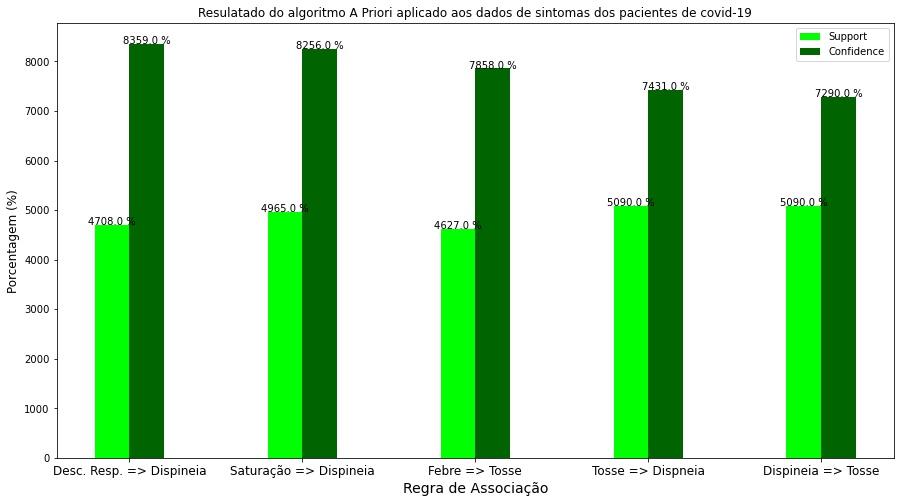
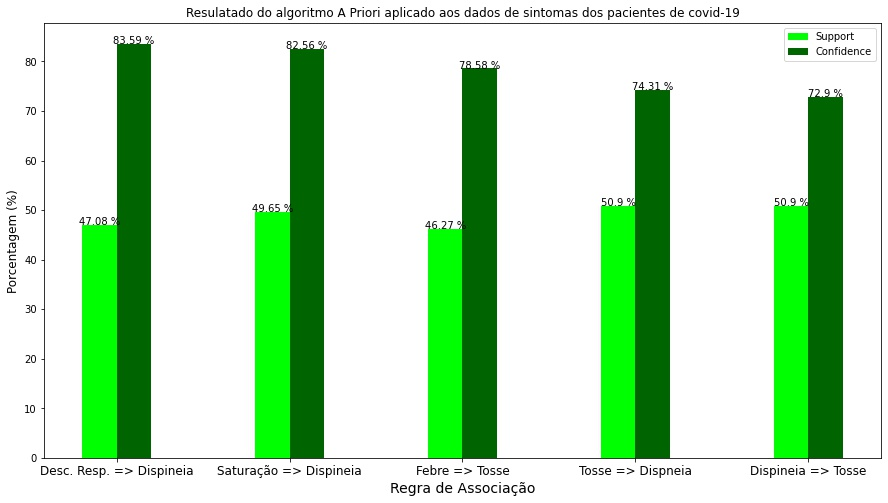
eeeeeeeeeeeeee

diff --git a/tcc_1/tcc_exemplo.tex b/tcc_1/tcc_exemplo.tex
@@ -118,7 +118,7 @@ A Computação é uma grande aliada nessa luta contra a covid-19, os estudos em 
 
 \chapter{Mineração de Dados}
 
-Desde de os primórdios da computação estudar dados tem sido uma atividade bastante fundamental e com o passar do tempo isso vem se tornando cada vez mais importante e necessário, hoje podemos dizer que dados são um dos recursos computacionais mais valiosos, sendo de extrema importância para qualquer empresa ou instituição. Uma das tecnologias mais utilizadas quando se trata de estudar e explorar dados é a Mineração de Dados. 
+Desde de o inicio da computação estudar dados tem sido uma atividade bastante fundamental e com o passar do tempo isso vem se tornando cada vez mais importante e necessário, hoje podemos dizer que dados são um dos recursos computacionais mais valiosos, sendo de extrema importância para qualquer empresa ou instituição. Uma das tecnologias mais utilizadas quando se trata de estudar e explorar dados é a Mineração de Dados. 
 
 	O termo Mineração de Dados se refere ao conjunto de técnicas utilizadas para descobrir conhecimento explorando os dados, esse processo busca encontrar padrões, irregularidades e correlações entre os dados de uma base. Cada caso exige uma estratégia de mineração diferente, cabe então ao cientista de dados escolher a técnica adequada ao seu problema, por isso é necessário conhecer bem o tipo de dado que será trabalhado. 
 	
@@ -553,12 +553,186 @@ Com o algoritmo A Priori chegamos á alguns resultados a cerca da base de dados 
  \end{itemize}
 
 \chapter{Conclusões}
+    
+    Com os resultados foi possível chegar em algumas conclusões bastante interessantes acerca dos dados da base, principalmente a relação entre os sintomas e as características dos pacientes de covid-19, que foi o foco deste projeto.
+    
+    Através dos gráficos estatísticos dos dados chegamos em alguns pontos importantes, que são, a maioria dos pacientes são pessoas idosas; que os incidente de casos foram maiores em pessoas do sexo masculino e de raça branca; que dispneia, tosse, saturação e febre foram os sintomas que mais ocorreram; e por ultimo que pessoas com comorbidades do tipo obesidade e diabética tiveram maior vulnerabilidade.
+    
+    Para finalizar temos os gráficos que mostra os conhecimentos descobertos. Primeiro temos as relações entre os sintomas descobertas através do A Priori. 
+
     \begin{figure}[!h]
     \centering
-    \includegraphics[width=14cm]{AprioriIMG.jpg}
-    \caption{Gráfico com o support e o confidence do resultado do A Priori}
+    \includegraphics[width=13cm]{AprioriIMG.jpg}
+    \caption{Gráfico com o resultado do A Priori aplicado aos sintomas de covid-19}
     \end{figure}
-
+    
+    \begin{itemize}
+    \item 47,08\% dos pacientes que tiveram desconforto respiratório manifestaram também dispneia, sendo a confiança dessa regra acorrer de 83,59\%;
+    
+    \item 49,65\% dos pacientes que tiveram saturação manifestaram também dispneia, sendo a confiança dessa regra acorrer de 82,56\%;
+    
+    \item 46,27\% dos pacientes que tiveram febre manifestaram também tosse, sendo a confiança dessa regra acorrer de 78,58\%;
+    
+    \item 50,9\% dos pacientes que tiveram tosse manifestaram também dispneia, sendo a confiança dessa regra acorrer de 74,31\%;
+    
+    \item 50,9\% dos pacientes que tiveram dispneia manifestaram também tosse, sendo a confiança dessa regra acorrer de 72,9\%;
+    \end{itemize}
+    
+    O maior índice de ocorrência de dois sintomas relacionados é de que pessoas que tiveram tosse também apresentaram dispneia, mas com a confiança podemos afirmar que a associação mais garantida entre os sintomas é que o paciente que tiver desconforto respiratório certamente terá dispneia.
+    
+    Agora relacionando o sexo dos pacientes com os sintomas.
+    
+    \begin{figure}[!h]
+    \centering
+    \includegraphics[width=12cm]{AprioriIMG_sexo_feminino.jpg}
+    \caption{Resultado gráfico do A Priori relacionando os sintomas ao sexo feminino}
+    \end{figure}
+    
+    \begin{itemize}
+    \item 46,55\% dos pacientes do sexo feminino que tiveram desconforto respiratório manifestaram também dispneia, sendo a confiança dessa regra acorrer de 83,42\%;
+    
+    \item 48,76\% dos pacientes do sexo feminino que tiveram saturação manifestaram também dispneia, sendo a confiança dessa regra acorrer de 82,44\%;
+    
+    \item 49,81\% dos pacientes do sexo feminino que tiveram tosse manifestaram também dispneia, sendo a confiança dessa regra acorrer de 74,02\%;
+    
+    \item 49,81\% dos pacientes do sexo feminino que tiveram dispneia manifestaram também tosse, sendo a confiança dessa regra acorrer de 71,95\%;
+    
+    \item 48,76\% dos pacientes do sexo feminino que tiveram dispneia manifestaram também saturação, sendo a confiança dessa regra acorrer de 70,43\%;
+    \end{itemize}
+    
+      O maior índice de ocorrência de dois sintomas relacionados entre os pacientes do sexo feminino é que quem tiver tosse também apresentaram dispneia, mas com a confiança podemos afirmar que a associação mais provável de ocorrer entre os sintomas é que o paciente que tiver desconforto respiratório certamente terá dispneia.
+    
+    \begin{figure}[!h]
+    \centering
+    \includegraphics[width=13cm]{AprioriIMG_sexo_masculino.jpg}
+    \caption{Resultado gráfico do A Priori relacionando os sintomas ao sexo masculino}
+    \end{figure}
+    
+     \begin{itemize}
+    \item 47,5\% dos pacientes do sexo masculino que tiveram desconforto respiratório manifestaram também dispneia, sendo a confiança dessa regra acorrer de 83,72\%;
+    
+    \item 50,37\% dos pacientes do sexo masculino que tiveram saturação manifestaram também dispneia, sendo a confiança dessa regra acorrer de 82,66\%;
+    
+    \item 49,01\% dos pacientes do sexo masculino que tiveram febre manifestaram tosse, sendo a confiança dessa regra acorrer de 78,85\%;
+    
+    \item 51,78\% dos pacientes do sexo masculino que tiveram tosse manifestaram dispneia, sendo a confiança dessa regra acorrer de 74,53\%;
+    
+    \item 51,78\% dos pacientes do sexo masculino que tiveram dispneia manifestaram também tosse, sendo a confiança dessa regra acorrer de 73,65\%;
+    \end{itemize}
+    
+      Entre os pacientes do sexo masculino a associação que teve maior índice de ocorrência foi a quem teve tosse também manifestou dispneia e valendo também para a associação ao contrario (dispneia=>tosse), porém quando olhamos para a confiança podemos afirmar que a associação mais garantida de ocorrer entre os relacionamentos é a de que se o paciente do sexo masculino tiver desconforto respiratório certamente terá dispneia também, assim como nos pacientes de sexo feminino.
+      
+      Logo podemos dizer acerca dos dados apresentados que o sexo tem pouca influencia nas relações entre sintomas, só se pode afirmar que pessoas do sexo masculino tem maior manifestação de sintomas do que as pessoas de sexo feminino. 
+      
+      Vamos agora mostrar os resultados do A Priori quando relacionamos os sintomas com a raça dos pacientes.
+    
+    \begin{figure}[!h]
+    \centering
+    \includegraphics[width=14cm]{1_Preta_apriori.jpg}
+    \caption{Resultado gráfico do A Priori relacionando sintomas dos pacientes da raça preta}
+    \end{figure}
+    
+    \begin{itemize}
+    \item 49,43\% dos pacientes da raça preta que tiveram desconforto respiratório manifestaram também dispneia, sendo a confiança dessa regra acorrer de 83,72\%;
+    
+    \item 51,87\% dos pacientes da raça preta que tiveram saturação manifestaram também dispneia, sendo a confiança dessa regra acorrer de 82,88\%;
+    
+    \item 45,78\% dos pacientes da raça preta que tiveram febre manifestaram tosse, sendo a confiança dessa regra acorrer de 79,8\%;
+    
+    \item 46,28\% dos pacientes da raça preta que tiveram desconforto respiratório manifestaram saturação, sendo a confiança dessa regra acorrer de 78,39\%;
+    
+    \item 52,41\% dos pacientes da raça preta que tiveram tosse manifestaram também dispneia, sendo a confiança dessa regra acorrer de 75,87\%;
+    \end{itemize}
+    
+    Entre pacientes pretos a associação de sintomas que mais ocorre entre os casos é a de que se tiver a pessoa tiver saturação terá consequentemente dispneia, essa regra ocorre em cerca de 51,87\% dos casos. Conferindo a confiança podemos afirmar que a maior probabilidade de uma regra ser verdadeira e a que se a pessoa preta tiver desconforto respiratório terá dispneia.
+    
+    \begin{figure}[!h]
+    \centering
+    \includegraphics[width=3.3cm]{fund0.png}
+    \end{figure}
+    
+    \begin{figure}[!h]
+    \centering
+    \includegraphics[width=14cm]{1_Parda_apriori.jpg}
+    \caption{Resultado gráfico do A Priori relacionando sintomas dos pacientes da raça parda}
+    \end{figure}
+    
+  \begin{itemize}
+    \item 49,69\% dos pacientes da raça parda que tiveram saturação manifestaram também dispneia, sendo a confiança dessa regra acorrer de 84,47\%;
+    
+    \item 49,81\% dos pacientes da raça parda que tiveram desconforto respiratória manifestaram também dispneia, sendo a confiança dessa regra acorrer de 84,24\%;
+    
+    \item 49,43\% dos pacientes da raça parda que tiveram febre manifestaram tosse, sendo a confiança dessa regra acorrer de 80,65\%;
+    
+    \item 45,19\% dos pacientes da raça parda que tiveram saturação manifestaram desconforto respiratório, sendo a confiança dessa regra acorrer de 76,81\%;
+    
+    \item 45,19\% dos pacientes da raça preta que tiveram desconforto respiratório manifestaram também saturação, sendo a confiança dessa regra acorrer de 76,27\%;
+    \end{itemize}
+    
+    Nos pacientes pardos a associação de sintomas que mais ocorre entre os casos a que se a pessoa tiver desconforto respiratório terá dispneia, essa regra ocorre em cerca de 49,91\% dos casos. Observando a confiança podemos afirmar que a maior probabilidade de uma regra ser verdadeira entre os pardos e é a de que se a pessoa tiver saturação terá consequentemente dispneia.
+    
+    \begin{figure}[!h]
+    \centering
+    \includegraphics[width=3.3cm]{fund0.png}
+    \end{figure}
+    
+    \begin{figure}[!h]
+    \centering
+    \includegraphics[width=14cm]{1_Branca_apriori.jpg}
+    \caption{Resultado gráfico do A Priori relacionando sintomas dos pacientes da raça branca}
+    \end{figure}
+    
+    \begin{itemize}
+    
+    \item 49,35\% dos pacientes da raça branca que tiveram desconforto respiratória manifestaram também dispneia, sendo a confiança dessa regra acorrer de 84,01\%;
+    
+    \item 53,11\% dos pacientes da raça branca que tiveram saturação manifestaram também dispneia, sendo a confiança dessa regra acorrer de 82,45\%;
+    
+    \item 46,62\% dos pacientes da raça branca que tiveram desconforto respiratória manifestaram saturação, sendo a confiança dessa regra acorrer de 79,38\%;
+    
+    \item 53,11\% dos pacientes da raça branca que tiveram dispneia manifestaram saturação, sendo a confiança dessa regra acorrer de 74,88\%;
+    
+    \item 51,1\% dos pacientes da raça branca que tiveram tosse manifestaram também dispneia, sendo a confiança dessa regra acorrer de 74,63\%;
+    \end{itemize}
+    
+    Temos que entre os pacientes brancos a associação de sintomas que mais ocorre entre os casos a que se a pessoa tiver dispneia terá saturação, sendo essa afirmação valida também para a associação ao contrario (saturação resultando dispneia).Logo com a confiança pode-se afirmar que a associação desconforto respiratório implica dispneia tem a maior probabilidade de ser uma regra verdadeira entre os brancos.
+    
+    Sabe-se que o maior índice de casos ocorre entre pessoas brancas seguido de pessoas pardas, sendo que pessoas pretas tem um dos menores índices de ocorrência. Logo sobre a relação dos dados raciais e de sintomas em comum, vemos que em pardos e brancos saturação implicando dispneia é a associação os que mais ocorre, já em pretos tosse implicando dispneia é tem maior ocorrência. 
+    
+    Considerando a confiança concluímos que nos pacientes pretos e brancos a associação desconforto respiratório implica dispneia tem a maior probabilidade de ser uma regra verdadeira entre esses dados, e que em pardos é a associação saturação resultando ter dispneia a maior.
+    
+    \begin{figure}[!h]
+    \centering
+    \includegraphics[width=7.5cm]{1_Preta_feminino_apriori.jpg}
+    \includegraphics[width=7.5cm]{1_Parda_feminina_apriori.jpg}
+    \includegraphics[width=8cm]{1_Branca_feminino_apriori.jpg}
+    \caption{Gráficos dos resultados do relacionamento do sexo feminino e raça dos pacientes de covid-19}
+    \end{figure}
+    
+    O primeiro gráfico trás os pacientes do sexo feminino e da raça preta e suas associações de sintomas, vemos que a que mais aparece entre as regras de associação e a que saturação implica ter dispneia, com 51,97\% entre os casos. Medindo a confiança, temos que desconforto respiratório resultando em ter dispneia como a regra com a maior probabilidade de ser verdadeira, com o valor de 84,25\%.
+    
+    No segundo mostra os pacientes do sexo feminino e da raça parda e suas regras de associações de sintomas, onde temos que o maior incidente é a regra tosse resultando dispneia e o contrario também, dispneia resultando tosse, ambos com 52,21\%. Com a confiança temos que saturação provocando dispneia no paciente como a associação com maior probabilidade de ser verdadeira.
+    
+     Agora no terceiro e ultimo gráfico exibe-se os dados dos pacientes do sexo feminino e raça branca e as regras de associação de sintomas que essas características tem dentro da base, vemos que a regra dispneia resultando a pessoas ter saturação junto como o inverso (saturação implicando dispneia) como as como maior ocorrência entre os pacientes com essas características, sendo de 52,32\% . A confiança declara que desconforto respiratório provocando a pessoa com covid-19 ter dispneia é a associação com maior valor de ser verdadeira, 83,86\%.
+     
+    
+    \begin{figure}[!h]
+    \centering
+    \includegraphics[width=7.5cm]{1_Preta_masculino_apriori.jpg}
+    \includegraphics[width=7.5cm]{1_Parda_masculino_apriori.jpg}
+    \includegraphics[width=7.5cm]{1_Branca_masculino_apriori.jpg}
+    \caption{Gráficos dos resultados do relacionamento do sexo masculino e a raça dos pacientes}
+    \end{figure}
+    
+    Na figura 31 temos no primeiro gráfico os dados de pacientes do sexo masculino e raça preta e suas regras de associação de sintomas, temos como a maior ocorrência a regra tosse implicando dispneia, sendo 52\% de vezes que apareceu entre esses dados. Como maior confiança de ser uma regra verdadeira temos desconforto respiratório implicando dispneia, com 83,29\%.
+    
+    Segundo gráfico é dos pacientes do sexo masculino e raça parda com as regras de associação entre esse perfil, vemos que a regra com maior valor de incidência é febre resultando a pessoa ter tosse, como o numero de 51,74\%. A confiança de ser uma regra verdadeira com maior valor temos saturação resultando a pessoa ter dispneia, com 84\%.
+    
+    No ultimo gráfico da figura 31 mostra-se, os pacientes do sexo masculino e raça branca e suas regras de associação de sintomas, a regra de maior ocorrência é saturação implicando o paciente ter dispneia, e vise e versa, como o valor de 53,76\%. Como regra de maior confiança de ser verdadeira temos desconforto respiratório provocando o paciente ter dispneia também, com valor de 84,14\%.
+    
+    
+    
+    Para finalizar o projeto, pode-se dizer que conseguimos chegar em alguns conhecimentos úteis e interessantes a cerca dos dados. Um ponto importante observado é que os resultados foram afetados porque alguns sintomas são muito semelhantes, assim podendo causar certa monotonia entre os resultados dificultando uma melhora visão do que se tem em cada ponto trabalhado.
 
 \chapter{Cronograma de atividades}
 A descrição das atividades remanescentes está listada na Tabela \ref{tb:atividades}, enquanto que o cronograma é apresentado na Tabela \ref{tb:cronograma}.
